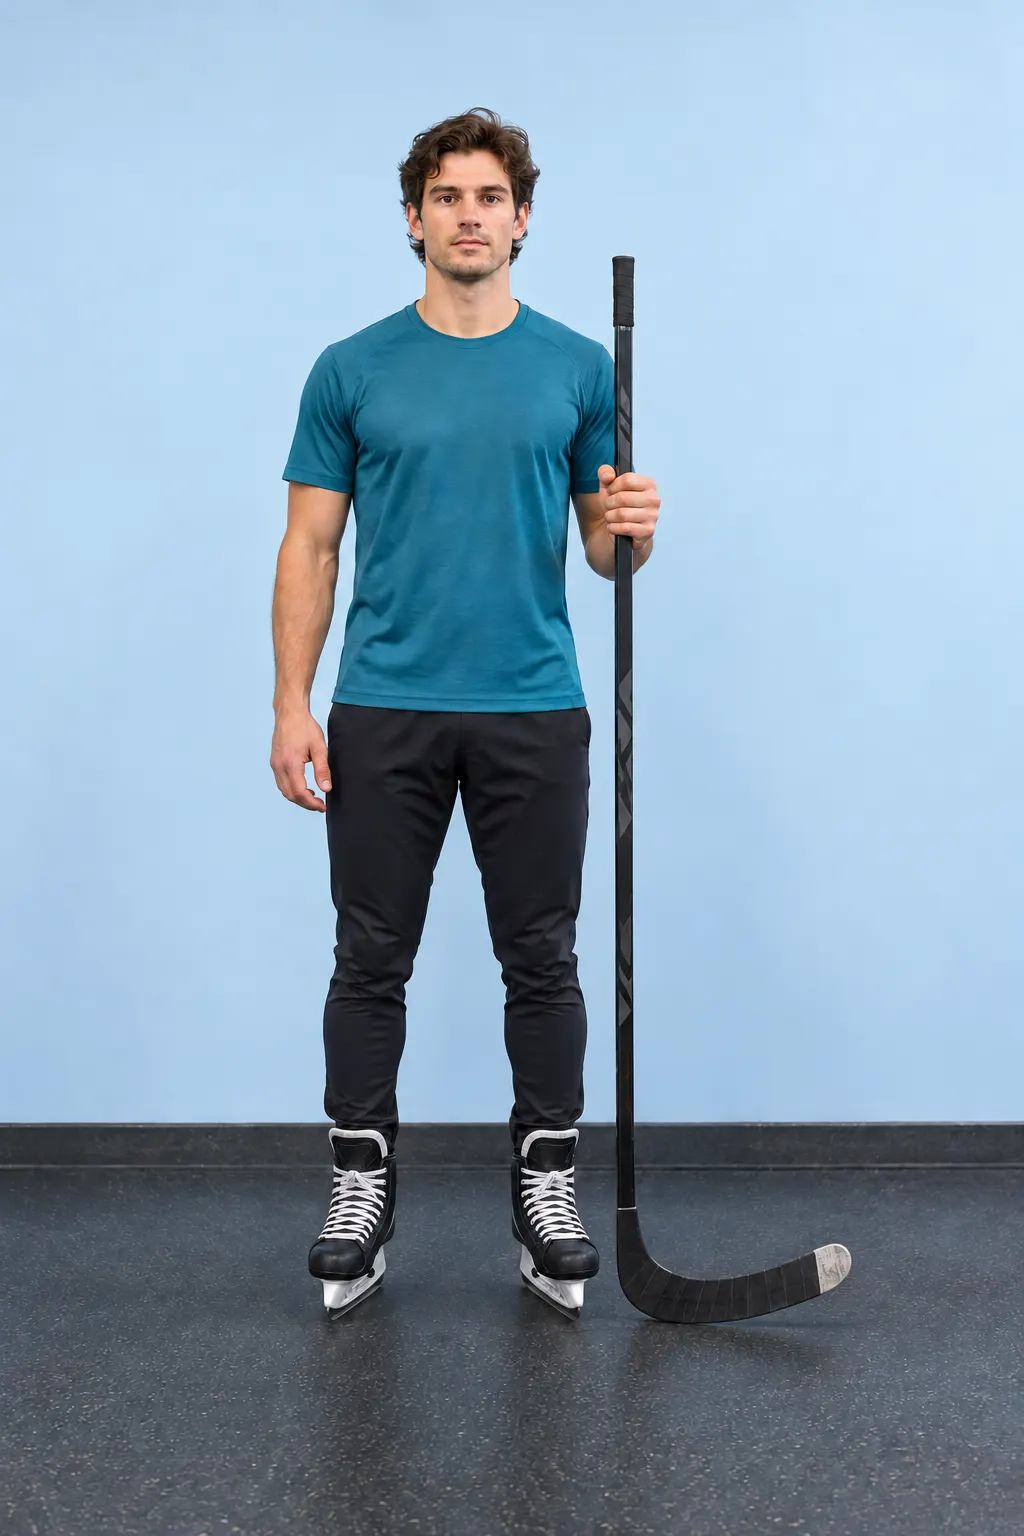
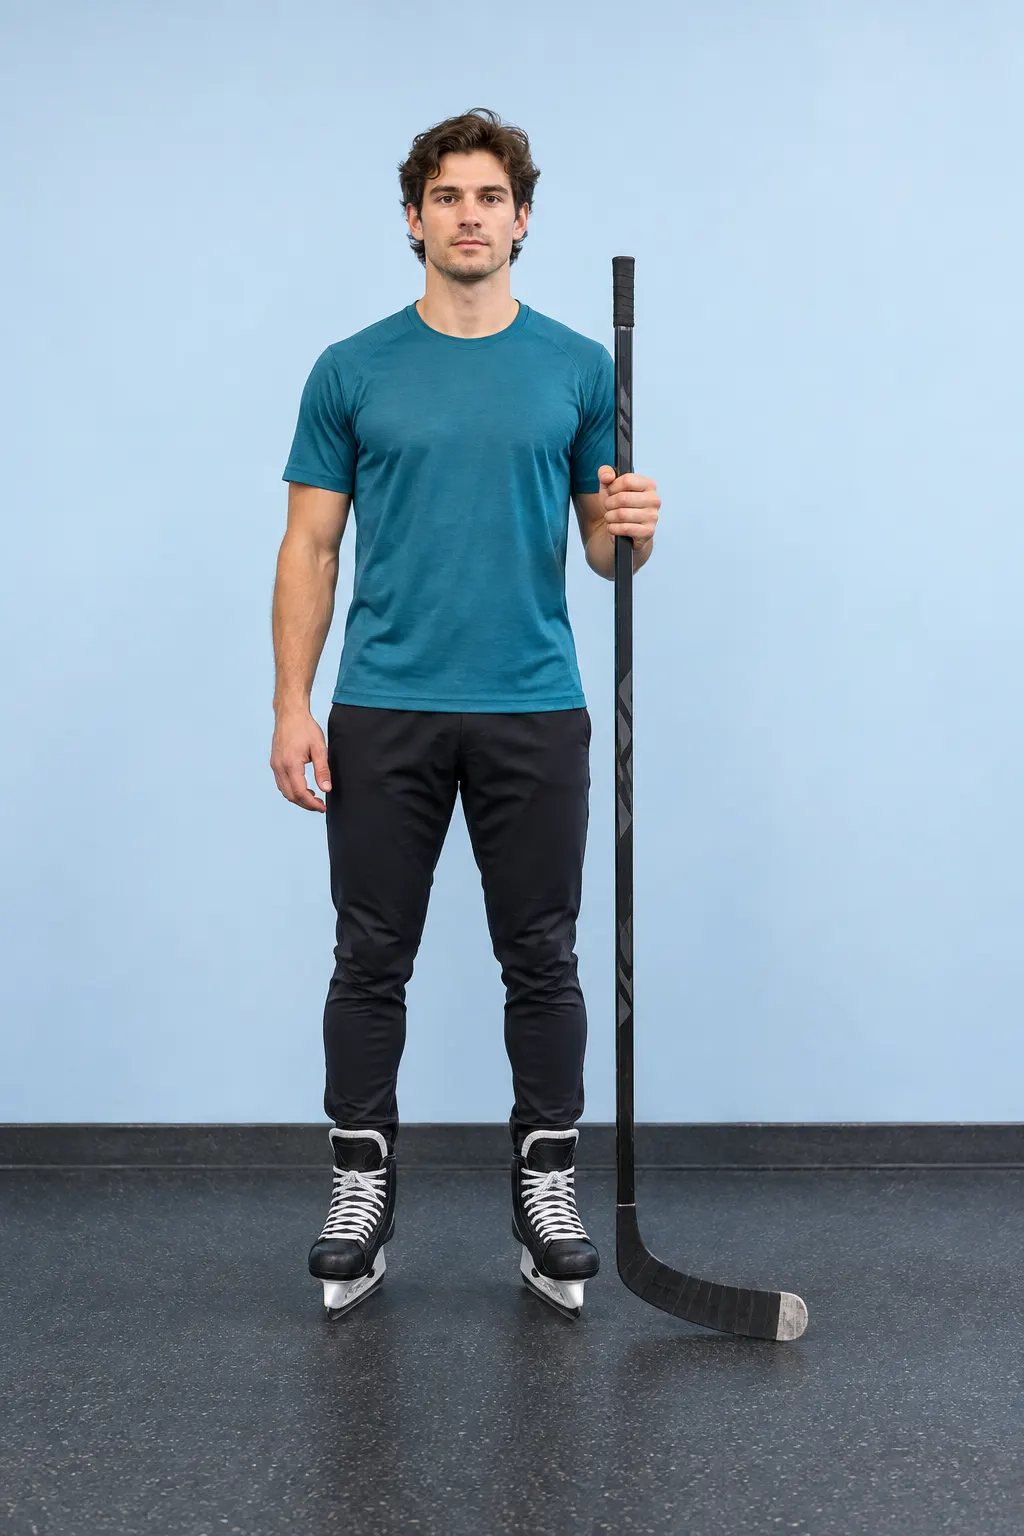
Correct Photo Fit stance to blade toe on floor

diff --git a/index.html b/index.html
@@ -297,12 +297,12 @@
               <p>Take a standing photo, then mark your nose, chin and stick top.</p>
             </div>
             <figure class="photo-pose-demo">
-              <img src="stick-photo-demo.webp" alt="Standing upright in ice hockey skates, holding a vertical stick beside the body with its blade heel on the floor. The complete head, skates and stick are visible." width="1024" height="1536" loading="lazy">
+              <img src="stick-photo-demo.webp?v=20260926-toe1" alt="Standing upright in ice hockey skates, holding a vertical stick beside the body with its blade toe (front tip) on the floor. The complete head, skates and stick are visible." width="1024" height="1536" loading="lazy">
               <figcaption>Example stance · AI generated illustration</figcaption>
             </figure>
             <ol class="pose-list">
               <li><span>1</span><div><b>Skates on. Stand straight.</b><small>Keep your head, skates and full stick in the photo.</small></div></li>
-              <li><span>2</span><div><b>Keep the stick vertical</b><small>Rest the blade heel on the floor beside your skates.</small></div></li>
+              <li><span>2</span><div><b>Keep the stick vertical</b><small>Rest the blade toe (front tip) on the floor beside your skates.</small></div></li>
               <li><span>3</span><div><b>Mark three points</b><small>Tap the nose, chin and stick top to check length.</small></div></li>
             </ol>
 
@@ -381,9 +381,9 @@
             <path d="M124 281Q170 292 216 281M125 573l29 5M186 578l29-5"/>
           </g>
           <g class="face-levels"><path d="M209 97H307M209 120H307"/><text x="215" y="90">NOSE</text><text x="215" y="137">CHIN</text></g>
-          <path class="camera-stick-outline" d="M292 109V585L328 594Q335 599 329 606H282V109Z"/>
+          <path class="camera-stick-outline" d="M292 109V567Q292 578 308 584L329 591Q336 594 333 606Q305 603 289 590Q282 582 282 567V109Z"/>
           <path class="camera-ground-line" d="M25 606H337"/>
-          <text class="camera-ground-label" x="180" y="628" text-anchor="middle">FEET AND BLADE ON THE SAME FLOOR</text>
+          <text class="camera-ground-label" x="180" y="628" text-anchor="middle">SKATES AND BLADE TOE ON THE FLOOR</text>
         </svg>
       </div>
       <div class="tap-hint" id="stickTopHint" hidden>Tap the top of the stick</div>
@@ -401,7 +401,7 @@
     </div>
   </div>
   <script src="review-data.js?v=20260923-reviews1"></script>
-  <script src="app.js?v=20260926-copy1"></script>
+  <script src="app.js?v=20260926-toe1"></script>
   <script src="shin-data.js?v=20260923-catalog4"></script>
   <script src="shin-fit.js?v=20260923-catalog4"></script>
 </body>

diff --git a/app.js b/app.js
@@ -331,7 +331,7 @@ function assessGuidedStickFit(stickTopY,canvasHeight,noseY,chinY) {
   if (![stickTopY,canvasHeight,noseY,chinY].every(Number.isFinite) || canvasHeight<=0 || noseY<0 || chinY<=noseY || chinY>canvasHeight || stickTopY<0 || stickTopY>canvasHeight) return {status:'unclear',title:'Check the photo markers',detail:'Mark the actual nose, chin and stick top. Retake if the face or complete stick is not visible.'};
   if (stickTopY < noseY) return {status:'long',title:'The stick may be too long',detail:'The marked stick top is above the marked nose. Confirm the length in person before cutting.'};
   if (stickTopY > chinY) return {status:'short',title:'The stick may be too short',detail:'The marked stick top is below the marked chin. Compare a longer stick in store.'};
-  return {status:'good',title:'Your stick length looks right',detail:'Your marks put the stick top between your chin and nose. This assumes you have skates on and the stick is upright with its blade on the floor.'};
+  return {status:'good',title:'Your stick length looks right',detail:'Your marks put the stick top between your chin and nose. This assumes you have skates on and the stick is upright with its blade toe (front tip) on the floor.'};
 }
 
 function stopFitCamera() {

diff --git a/AI-PHOTO-FIT.md b/AI-PHOTO-FIT.md
@@ -8,7 +8,7 @@ The optional AI button requires explicit photo-sharing consent. Capture is resiz
 
 The server uses OpenAI Responses with gpt-4.1-mini, strict JSON output and store:false. It does not write images or responses to a database, object store or application log. OpenAI retention policies still apply; store:false is not a promise of zero provider retention. Disclosure is shown before sending. Manual checks remain local.
 
-Only upright standing length is estimated. Unclear views, missing skates, poor perspective, tilted sticks and hidden landmarks should produce a retake result. AI cannot establish flex, blade lie, safety, or an exact amount to cut. This is an unvalidated beta; real photo evaluation against a coach or fitter is still needed before relying on its accuracy.
+Only upright standing length is estimated. The blade toe (front tip) must touch the floor with the heel raised; heel contact or a flat blade requires a retake. Unclear views, missing skates, poor perspective, tilted sticks and hidden landmarks should produce a retake result. AI cannot establish flex, blade lie, safety, or an exact amount to cut. This is an unvalidated beta; real photo evaluation against a coach or fitter is still needed before relying on its accuracy.
 
 Requests are same-origin browser POSTs, JPEG data only, at most 2.2 MB, with a 30 second upstream timeout. Same-origin checks are not authentication. The Cloudflare limiter allows five requests per minute per IP per Cloudflare location; users sharing a network share this limit. This is not a global spending cap. Configure account billing controls separately. Rate limiting fails closed if unavailable. No API calls are made when the secret is missing. A live synthetic blank JPEG request succeeded after the runtime secret was configured on September 26. It returned retake, but its visual explanation hallucinated a posture. Retake explanations are therefore replaced by neutral server text. This smoke test verifies connectivity only, not accuracy on real fitting photos.
 
